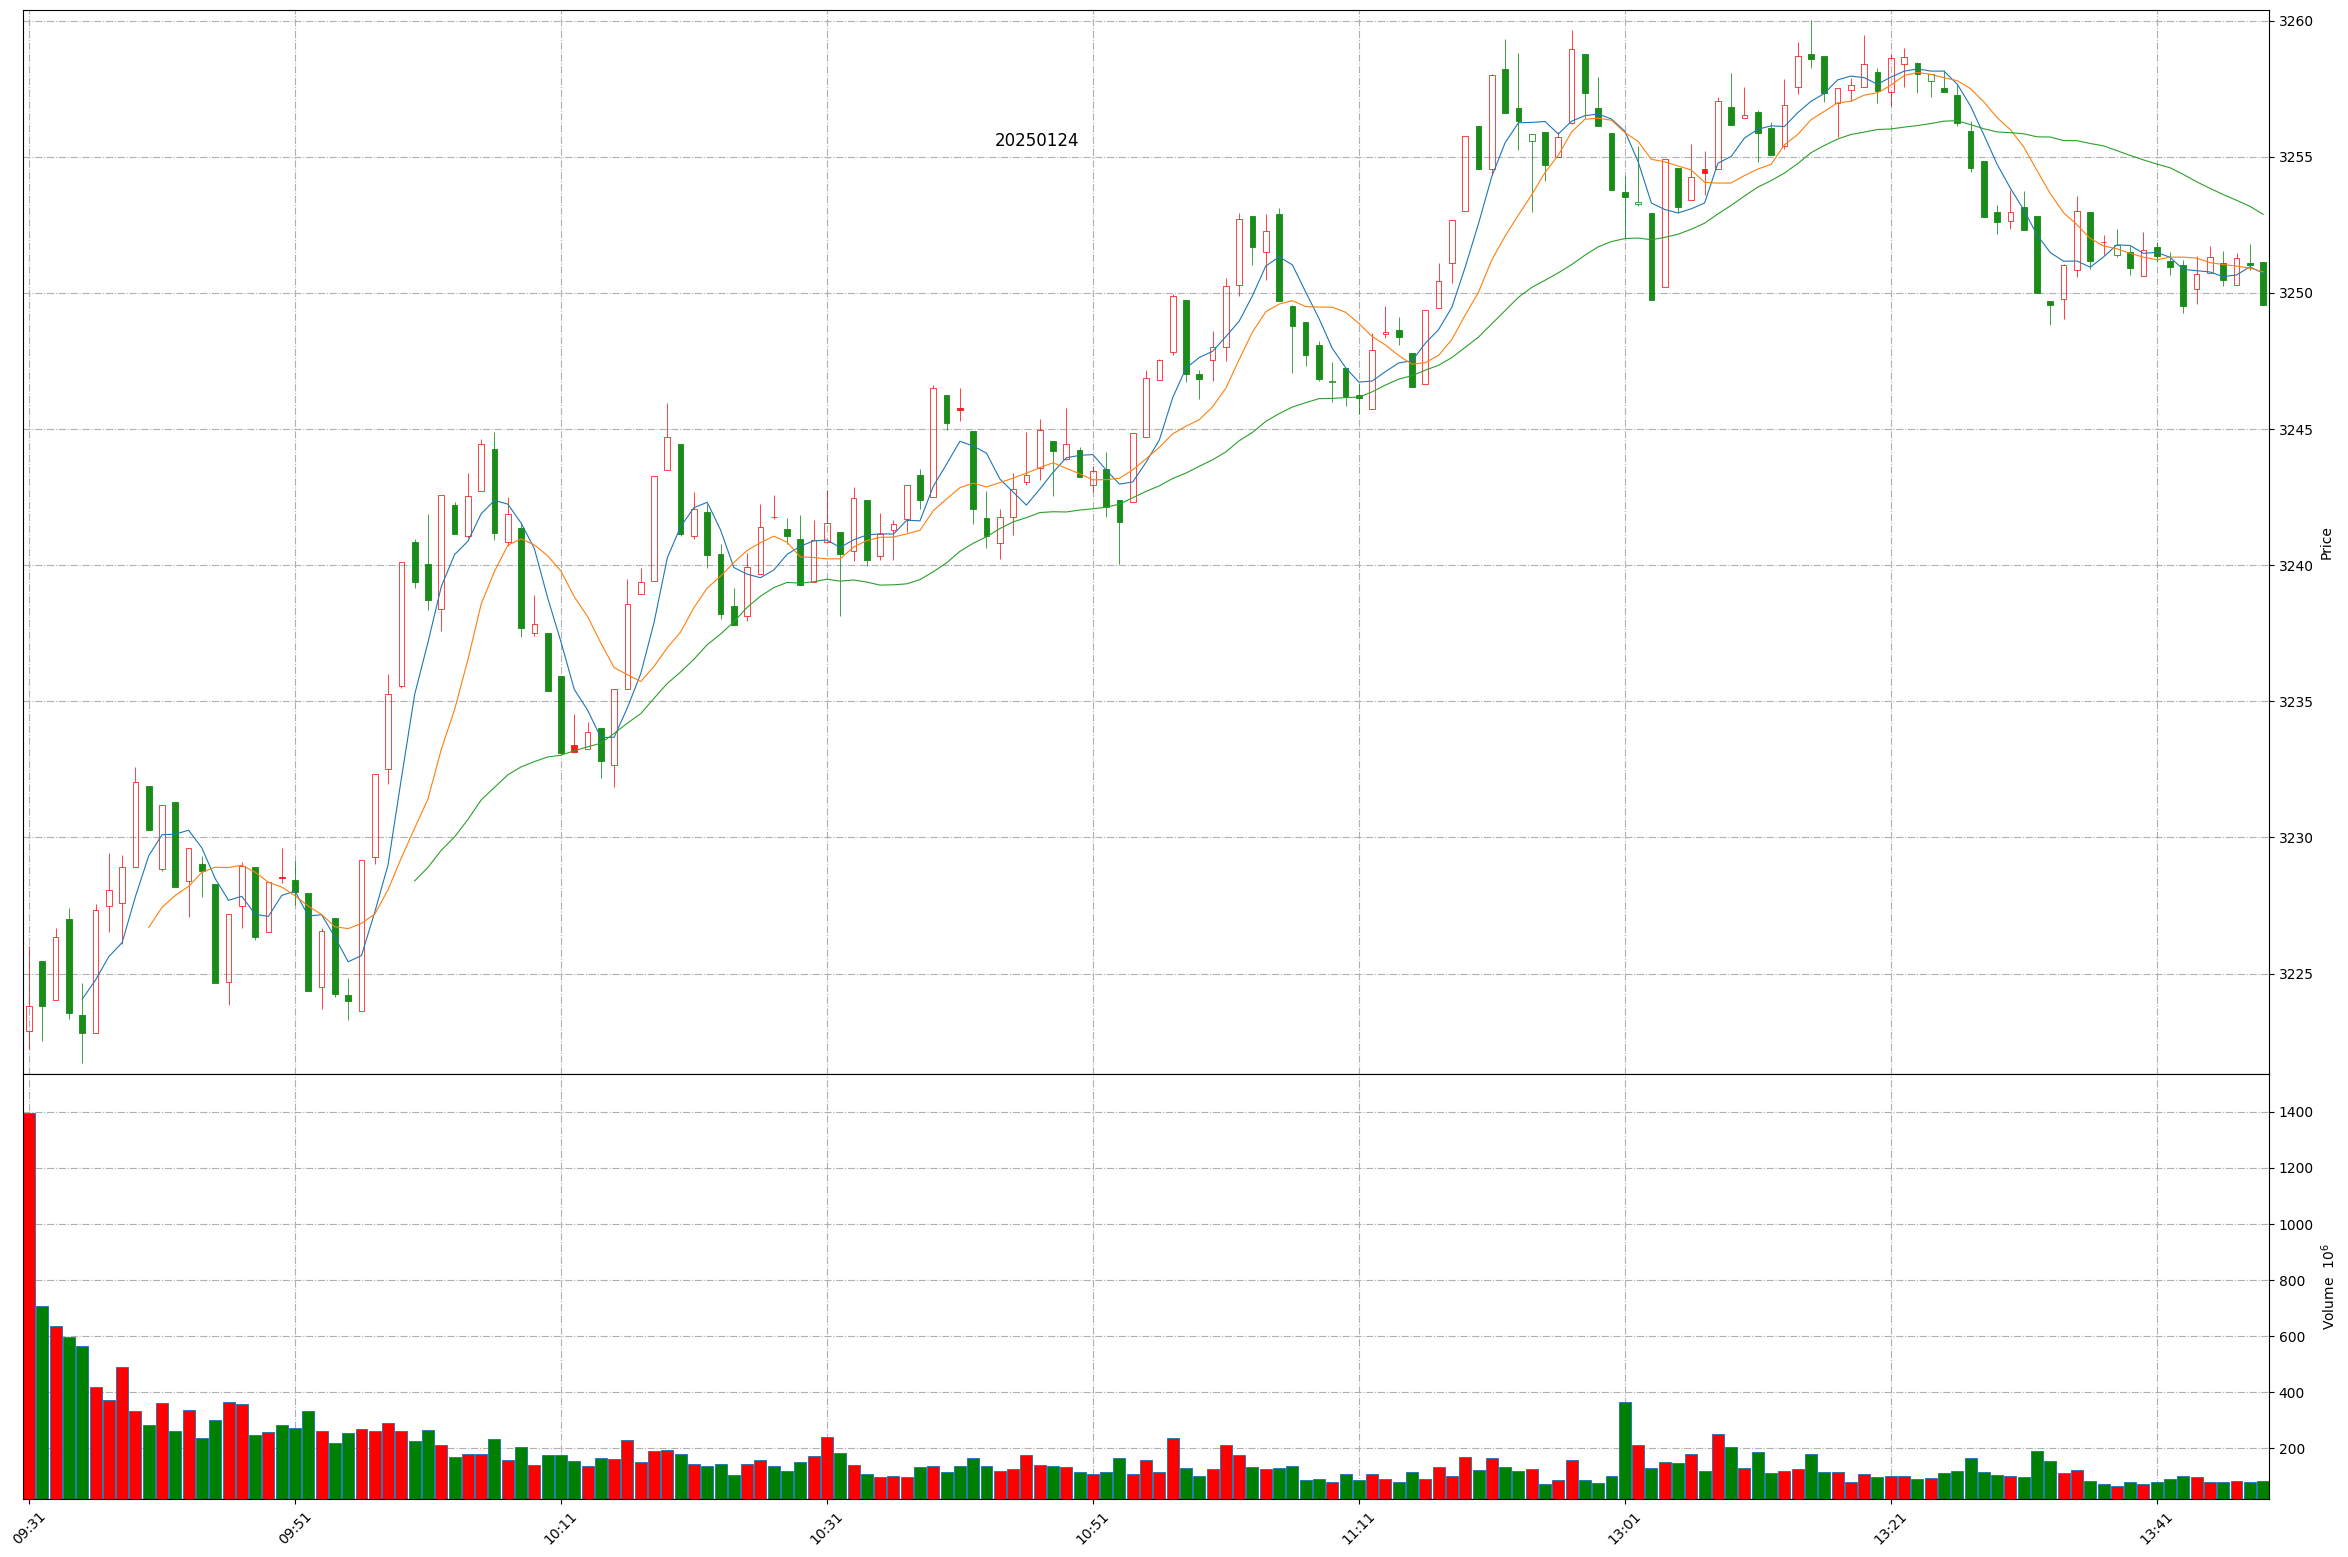
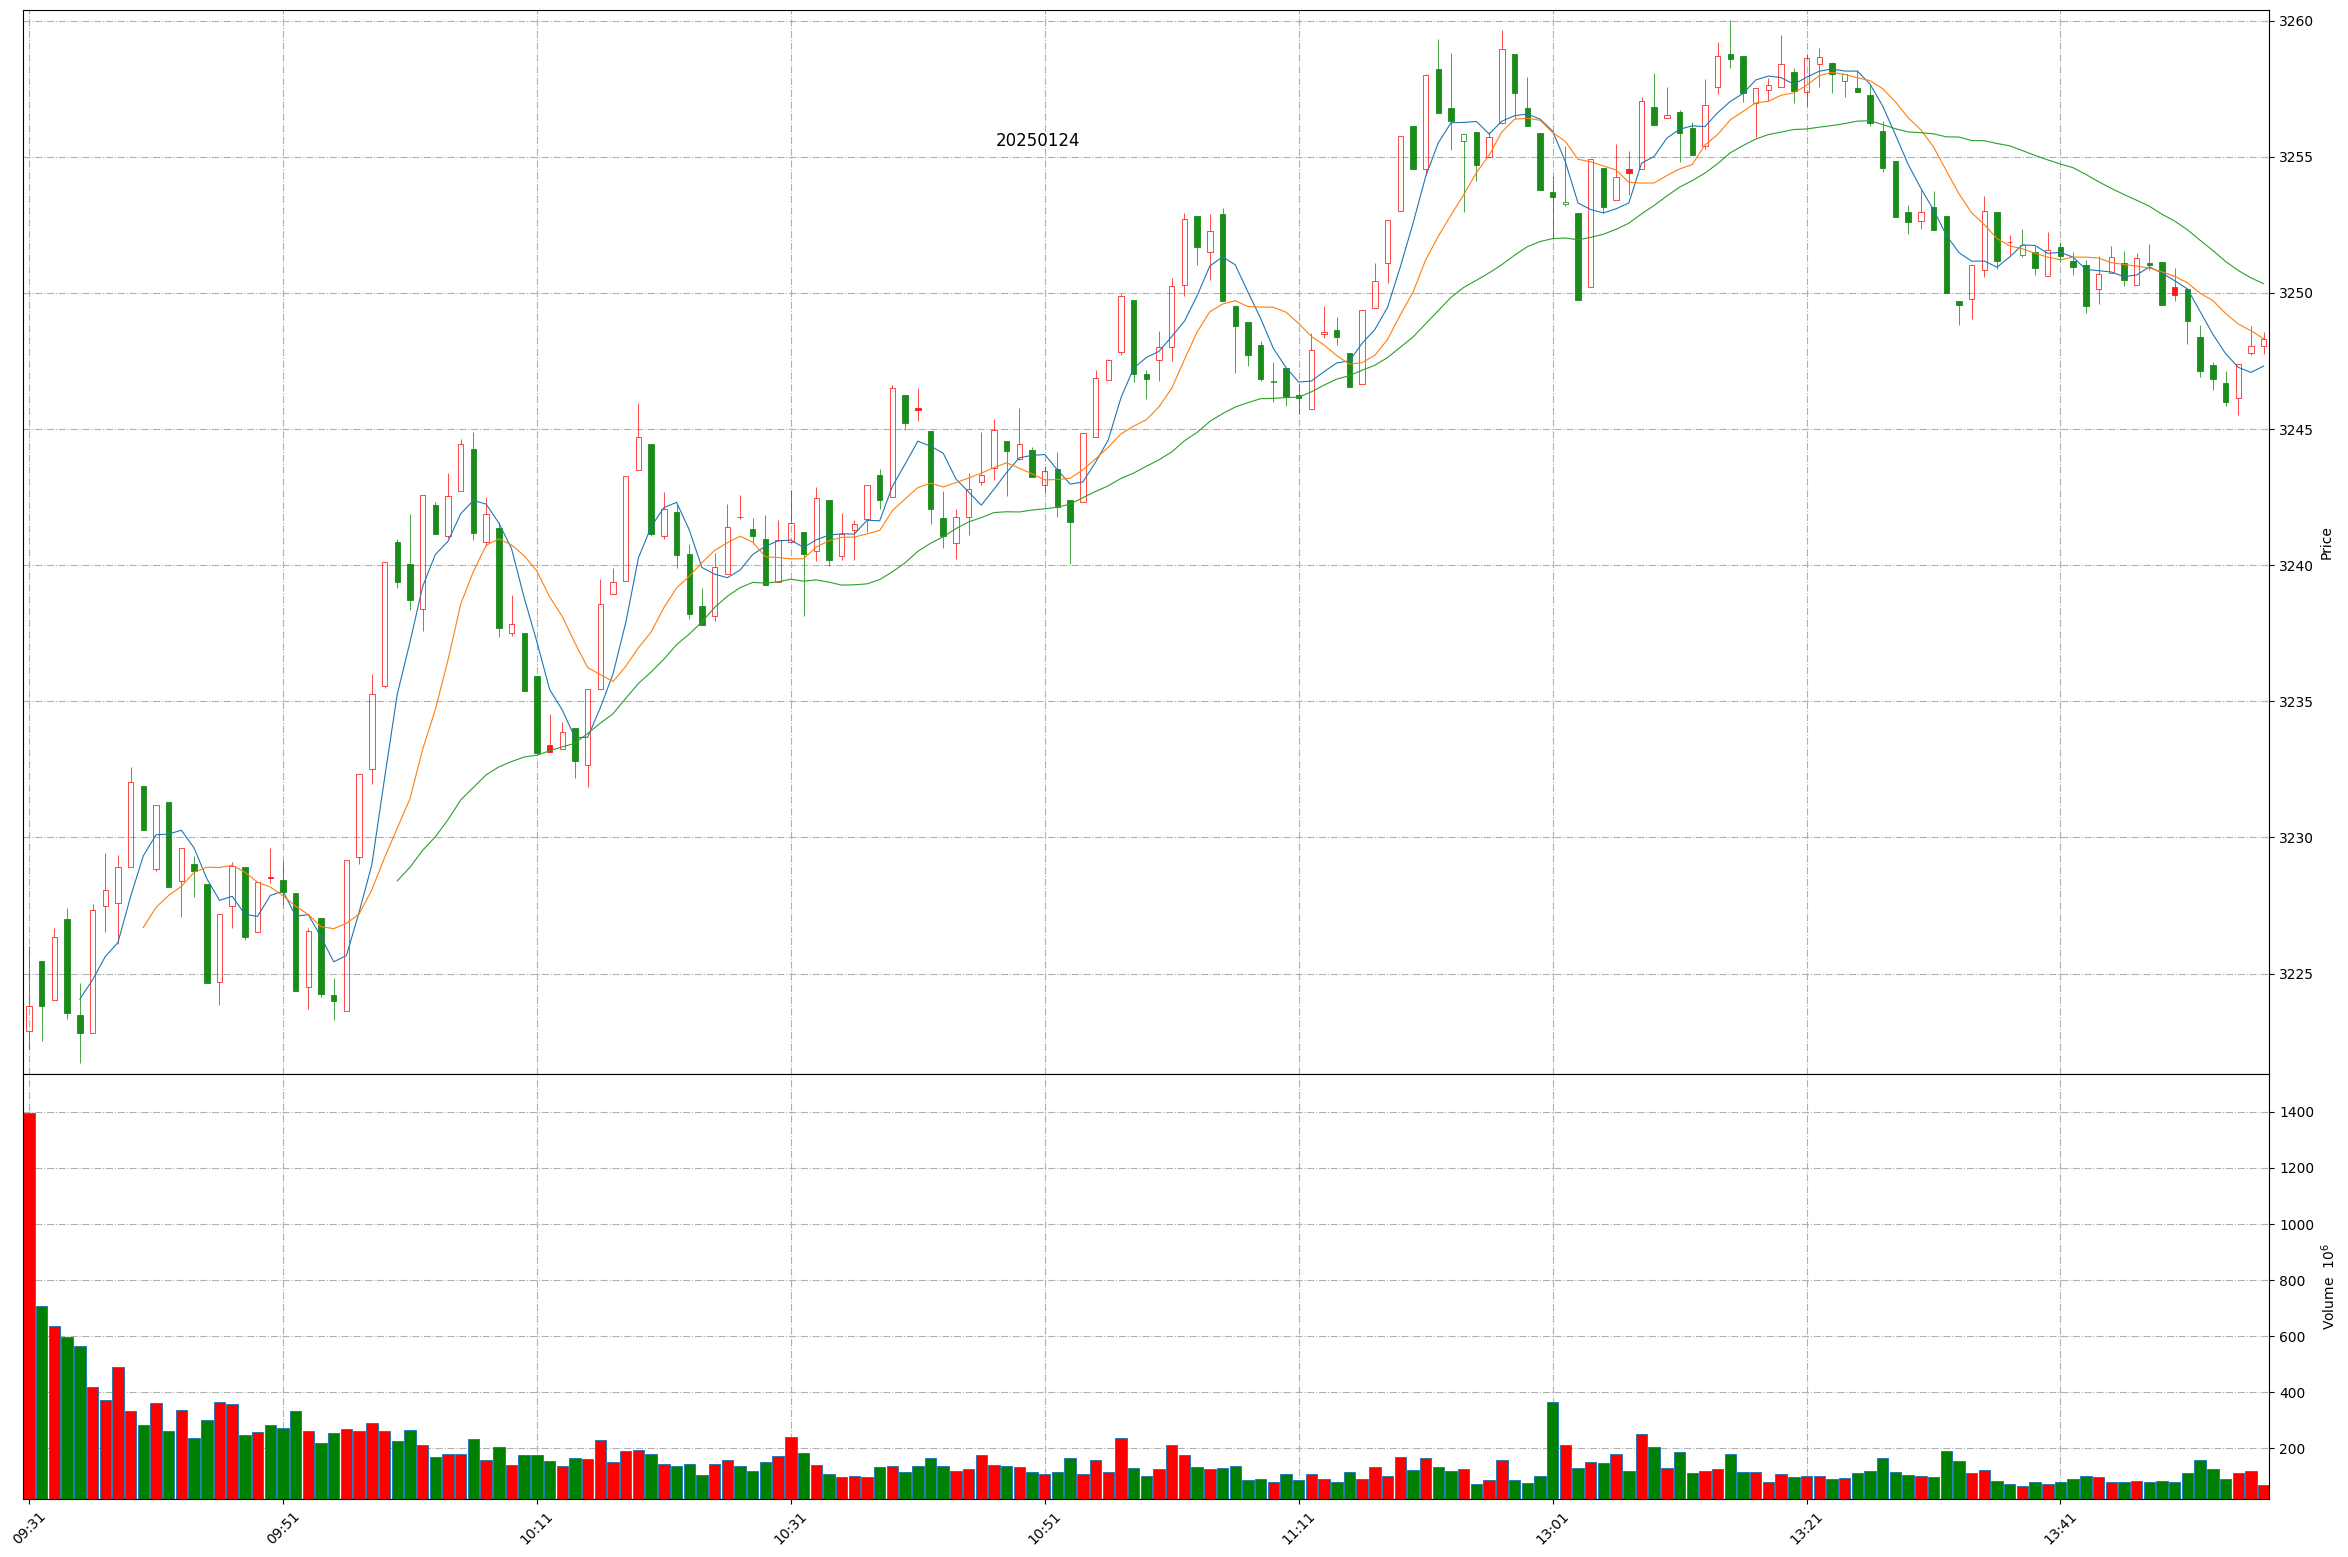
Github action update at 2025-01-24 13:56:58.

Changed region(s): [[0.0, 0.8632, 0.9638, 0.9865], [0.0, 0.1233, 0.6218, 0.6474], [0.5907, 0.0308, 0.9638, 0.2466]]

diff --git a/README.md b/README.md
@@ -1,11 +1,11 @@
 
 # Daily-A-share-market-quotes 每日 A 股指数（5min 更新）- 20250124
 
-### 上证指数 20250124 13:49
+### 上证指数 20250124 13:56
 ![](./fig/2025/1/20250124-sh000001.png)
 
-### 深证成指 20250124 13:49
+### 深证成指 20250124 13:56
 ![](./fig/2025/1/20250124-sz399001.png)
 
-### 北证50 20250124 13:49
+### 北证50 20250124 13:56
 ![](./fig/2025/1/20250124-bj899050.png)
